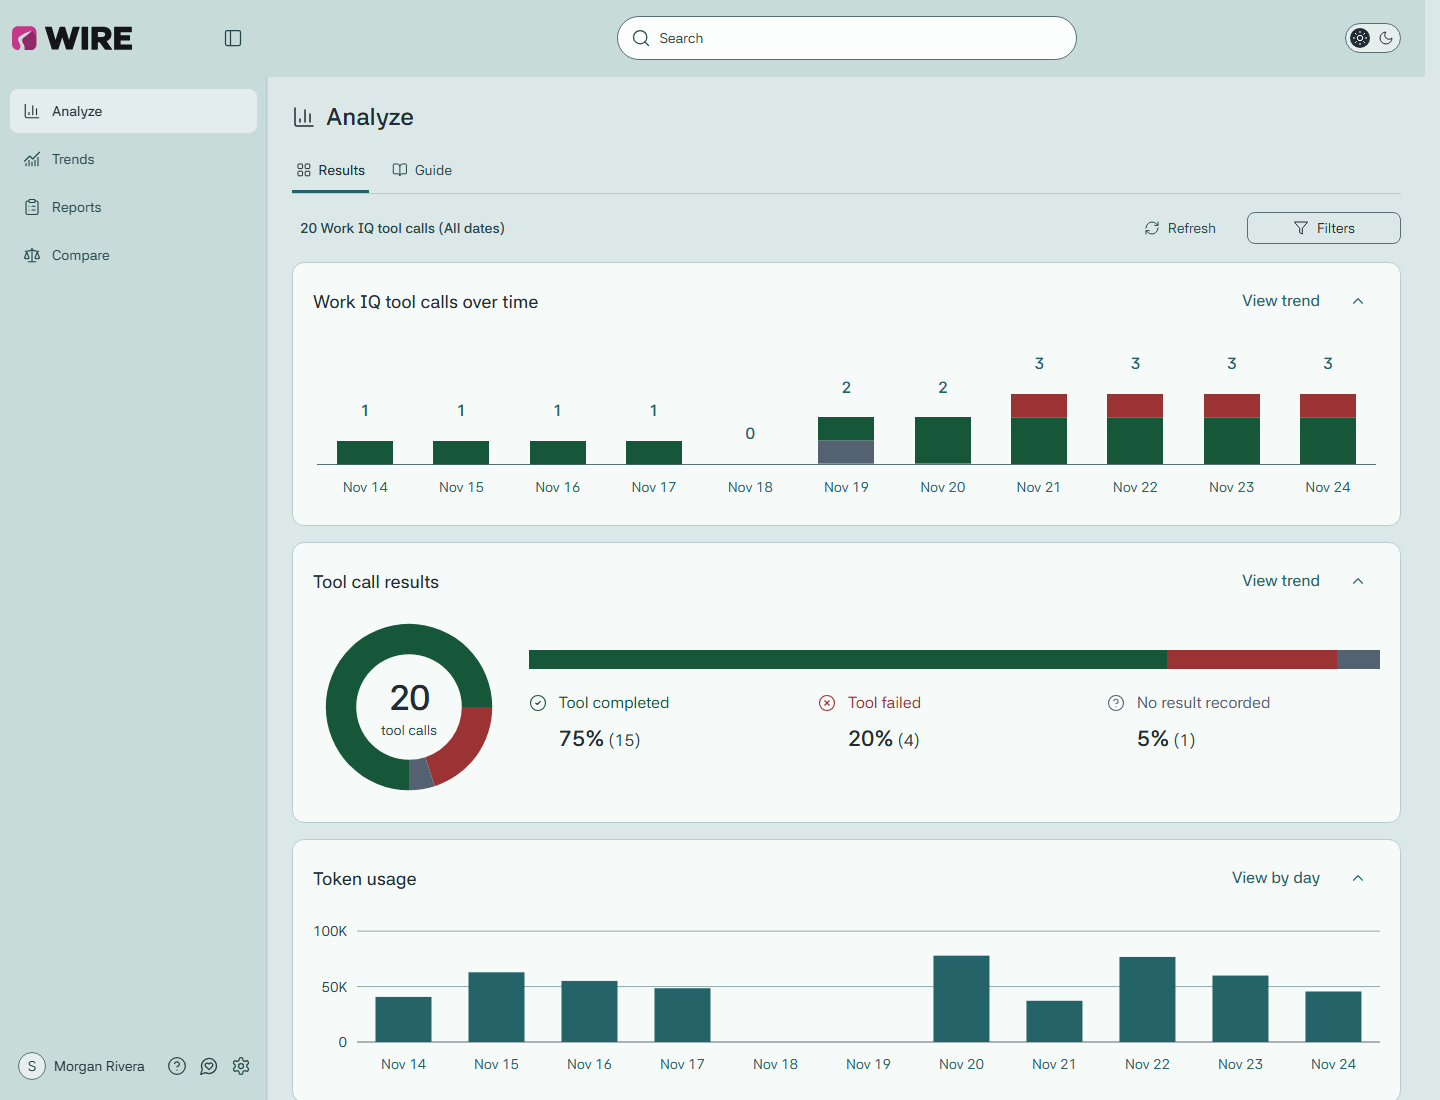
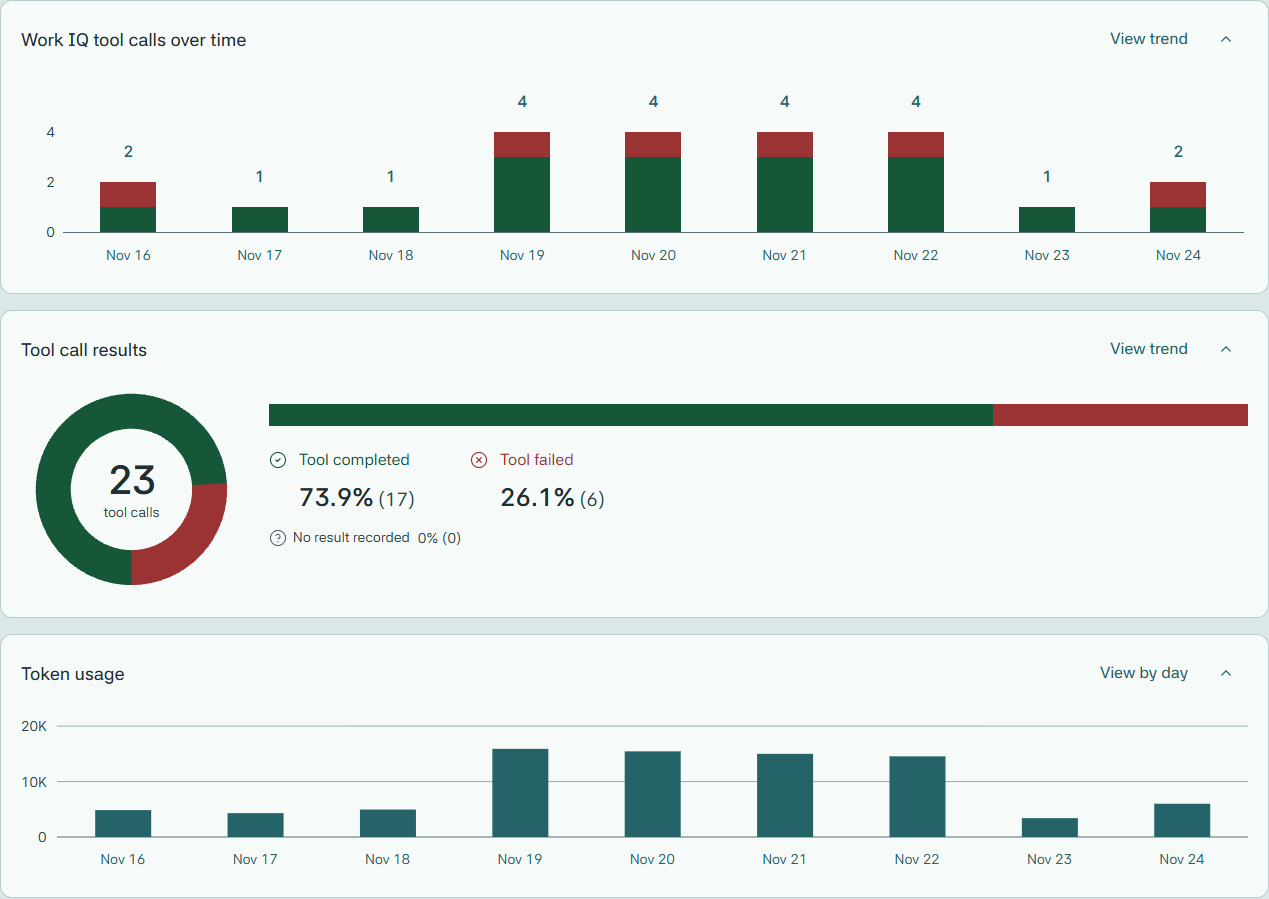
Illustrate daily calls and token columns from the shipped Analyze view

diff --git a/docs/user-guide.md b/docs/user-guide.md
@@ -93,12 +93,16 @@ list follows the same filters.
 Open **Filters** to narrow the view by Dates, Tool, Service involved, Outcome or
 Prompt author. **More filters** holds the additional choices.
 
-![Analyze Results with daily tool calls, recorded outcomes, daily token columns and collapse controls at the right of each chart heading.](images/analyze.png)
+![Nine days of tool calls above the results for all 23 calls: 17 completed and 6 failed. The bottom chart counts model tokens by day.](images/analyze.png)
 
 ### Read the charts
 
 When Analyze opens, the charts build to the recorded counts. This isn't
 collection progress. With reduced motion, the final values appear immediately.
+
+Read a date for its daily count, or **Tool call results** for the whole period.
+In the example, November 19 had four calls. The six failures in the donut
+come from the full nine days.
 
 In **Tool call results**:
 
